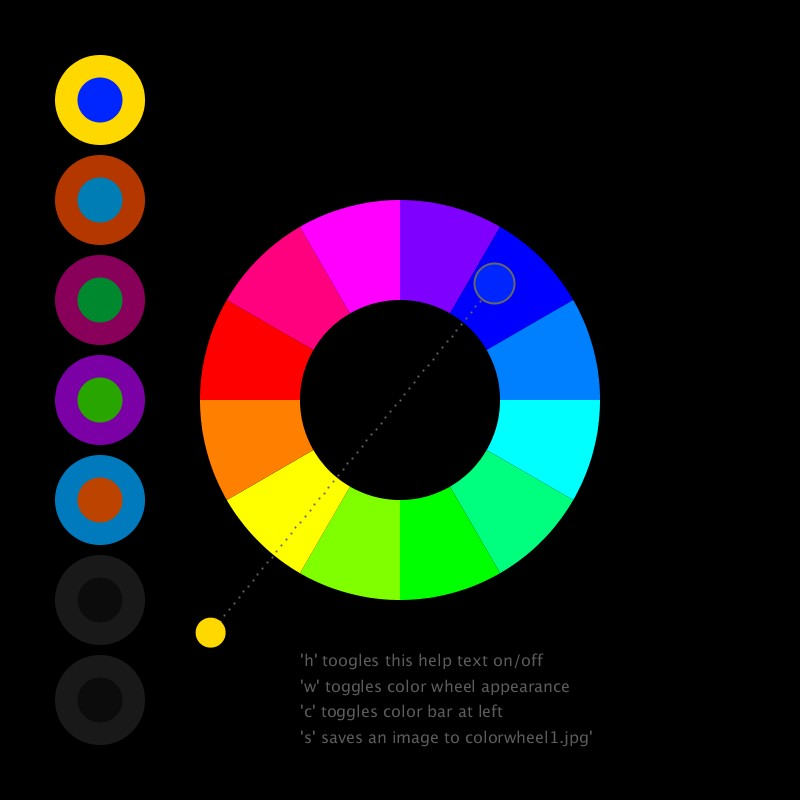
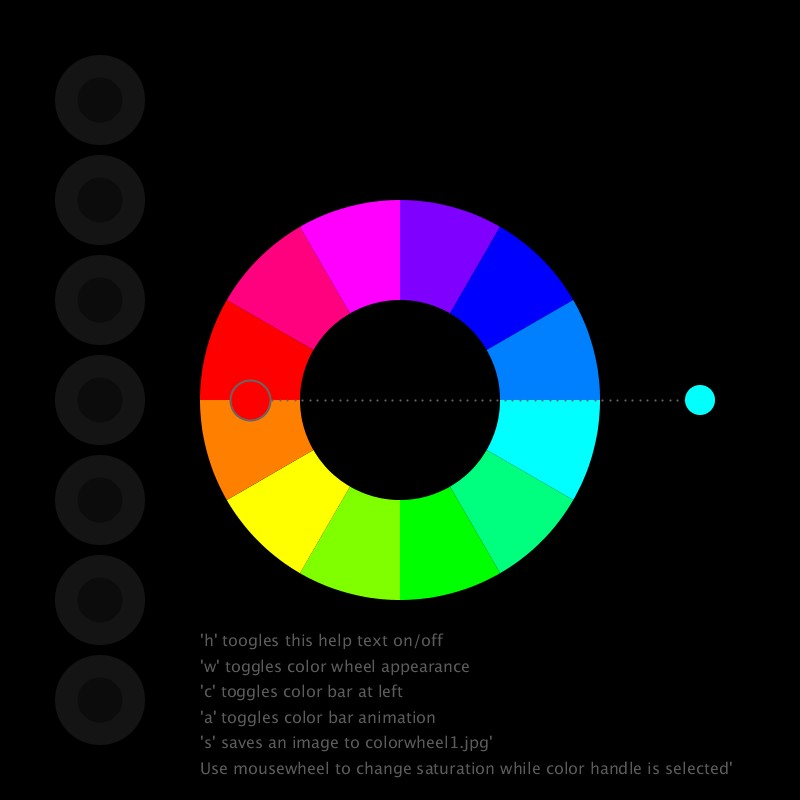
Added handling the color saturation using the mouse wheel

diff --git a/colourwheel/README.md b/colourwheel/README.md
@@ -16,11 +16,15 @@ to implement the color bar at the left. You can cnange quite some parameters
 
 A help text is shown by default.
 
+### Controlling saturation
+
+This is now implemented by using the mouse wheel while having the color handle in use with
+left mouse key pressed.
+
 ## TODOs
 
-Getting the saturation thing done...
-
-Also, the colorbar could get some nice animation, showing the falling elements...
+Also, the colorbar could get some nice animation, showing the falling elements... First steps
+are prepared for this... see next release
 
 ## bugs and fixes
 
